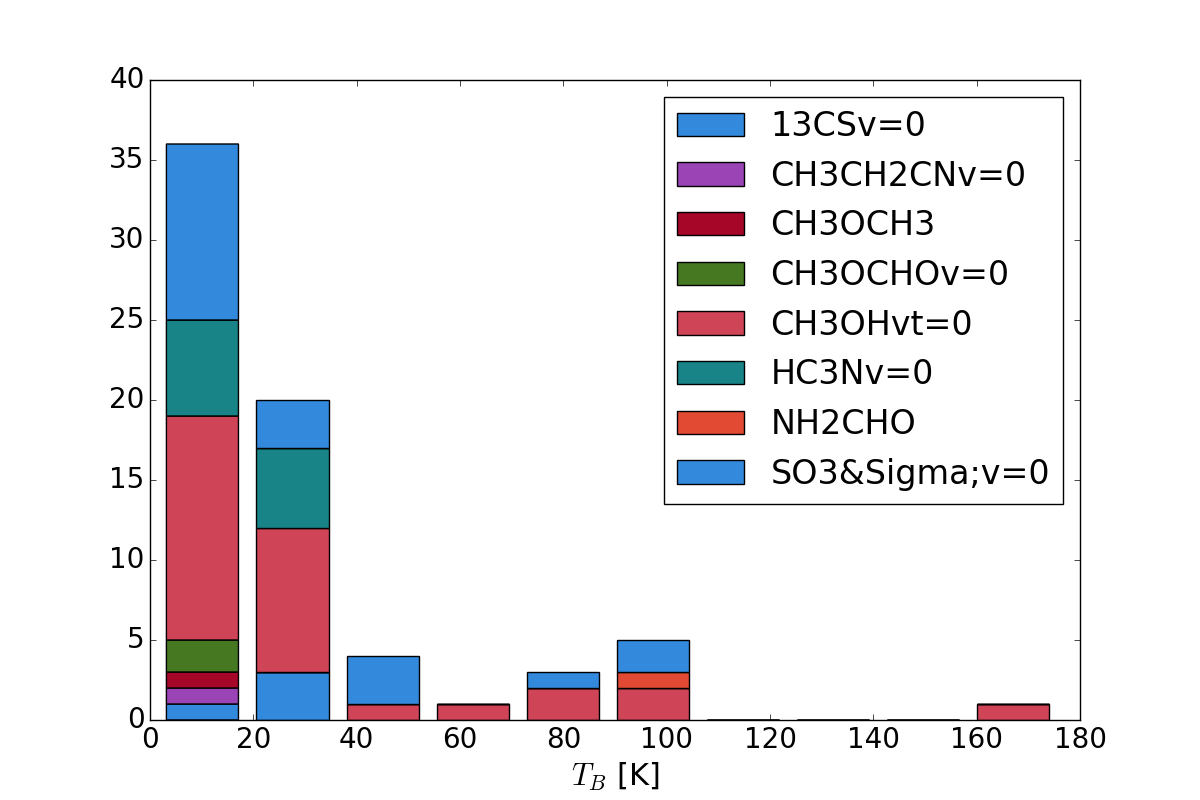
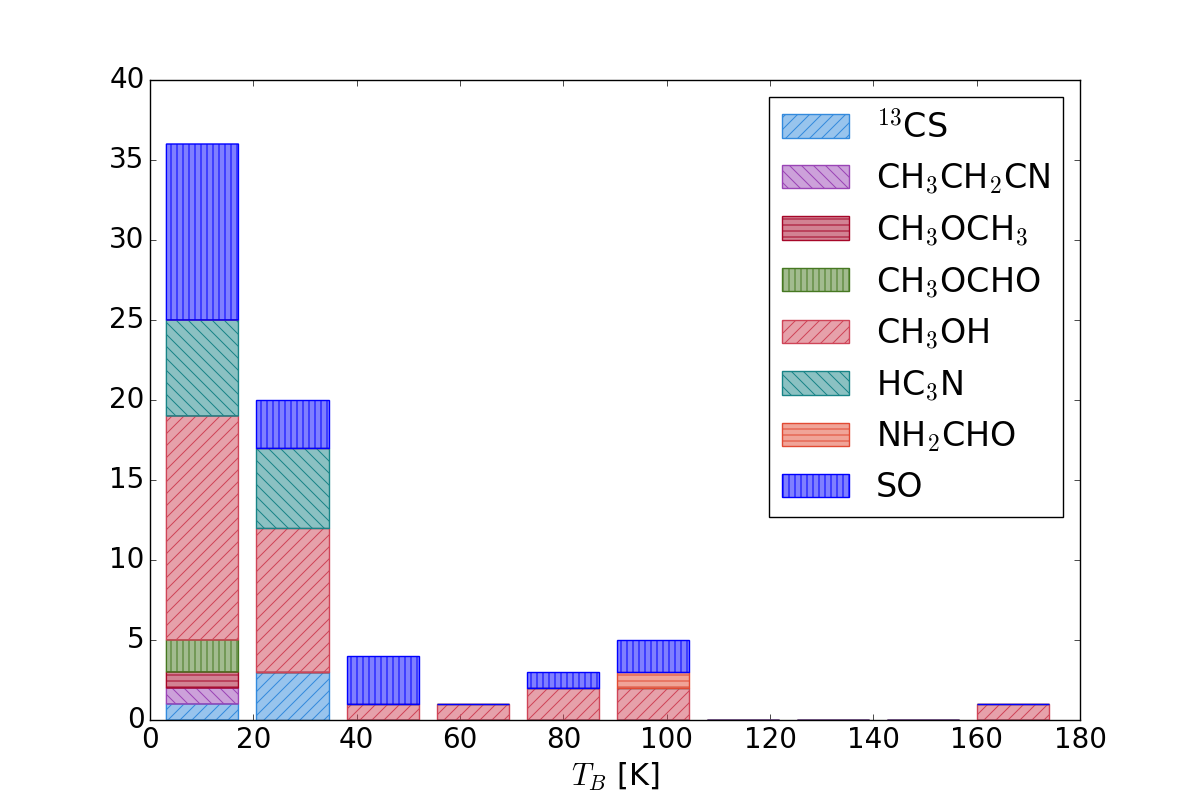
added more analysis

Changed region(s): [[0.555, 0.0938, 0.8942, 0.6562], [0.1233, 0.1562, 0.5858, 0.9062], [0.8017, 0.875, 0.8942, 0.9062]]

diff --git a/cores_and_outflows/cores_and_outflows.tex b/cores_and_outflows/cores_and_outflows.tex
@@ -1213,11 +1213,49 @@ surrounding cloud material, allowing radiation to escape.
 
 The detection of widespread high-J \methanol emission around the highest-mass
 protostars suggests that the use of \methanol as a bulk outflow tracer as
-suggested by \citet{Kristensen2015a} is not viable.  While mid-J \methanol
-emission is detected associated with the outflow (e.g., the J=10-9 transition),
-it is completely dominated by the general `extended hot core' emission
-described in Section \ref{sec:chemistrymaps}.
+suggested by \citet{Kristensen2015a} is not viable in regions with forming
+high-mass stars.  While mid-J \methanol emission is detected associated with
+the outflow (e.g., the J=10-9 transition), it is completely dominated by the
+general `extended hot core' emission described in Section
+\ref{sec:chemistrymaps}.
 
+
+\subsection{The accreting phase of high-mass star formation}
+The strong outflows observed around the highest-mass forming stars, e2e, e8,
+and north are clear indications of ongoing accretion onto these sources.
+However, the bright \hii regions, including e2w, e1, and d2, all lack any sign
+of an outflow or a surrounding rotating molecular structure.  Most of these
+sources lack any surrounding molecular material at all.
+%; e2w is an exception, being embedded in the e2e core, but it shows signs
+% that it may be escaping from the core, rather than being its focus
+
+Some models of high-mass star formation suggest that accretion continues
+through the ionized (\hii region) phase \citep{Keto2007a}.  The lack of
+molecular material around the majority of the compact \hii regions in W51
+suggests instead that most of the accretion is done by the time an \hii region
+ignites.
+
+
+\subsection{Jeans analysis?}
+Fragmentation is one of the critical problems in high-mass star formation.
+Assuming typical initial conditions for molecular clouds, with temperatures of
+order 10 K, gas is expected to fragment into sub-solar mass cores, preventing
+material from accreting onto single high-mass stars \citep{Krumholz2015a}.
+Even after high-mass stars successfully form, further fragmentation could
+halt the growth of these stars and limit their final mass \citep{Peters2010a}.
+
+Thermal Jeans fragmentation can be limited or suppressed entirely if the gas is
+warm enough.  The high observed gas temperatures, $T\sim100-600$ K over
+$\sim10^4$ AU, around the high mass protostars indicate that their radiative
+feedback in the infrared has a dramatic effect on the gas.  
+
+\todo{Is it worth going through the process of preventing/halting fragmentation
+by heating?  Should probably compute density profile, temperature profile, resulting
+jeans mass profile}
+
+
+% Expanding HII regions are more likely due to stars leaving their dense gas
+% regions than blowing away their surroundings...
 
 \section{Conclusions}
 We conclude.

diff --git a/plot_code/core_table_plots.py b/plot_code/core_table_plots.py
@@ -9,10 +9,12 @@ from astropy.io import fits
 from astropy import wcs
 from matplotlib.patches import Circle
 import matplotlib
-
-raise("TODO: add more colors/hatches to colorcycle")
+from cycler import cycler
 
 pl.matplotlib.rc_file('pubfiguresrc')
+pl.mpl.rcParams['axes.color_cycle'] = ('338ADD', '9A44B6', 'A60628', '467821',
+                                       'CF4457', '188487', 'E24A33', 'b', 'r',
+                                       'g', 'm', 'k')
 
 core_velo_tbl = Table.read(paths.tpath("core_velocities.ipac"), format="ascii.ipac")
 core_phot_tbl = Table.read(paths.tpath("continuum_photometry.ipac"), format='ascii.ipac')
@@ -366,6 +368,7 @@ pl.xlabel("0.2\" aperture flux")
 pl.ylabel("0.2\" over 0.4\" concentration parameter")
 pl.ylim(0,1.5)
 
+
 fig4 = pl.figure(4)
 fig4.clf()
 ax=fig4.gca()
@@ -381,16 +384,38 @@ histdata = []
 cont_brightness = cores_merge['MeanContinuumBrightness']
 contincluded_line_brightness = cores_merge['BrightestFittedPeakPixBrightnessWithcont']
 
+linename_mapping = {'13CSv=0': '$^{13}$CS',
+                    'CH3CH2CNv=0':'CH$_3$CH$_2$CN',
+                    'CH3OCH3':'CH$_3$OCH$_3$',
+                    'CH3OCHOv=0':'CH$_3$OCHO',
+                    'CH3OHvt=0':'CH$_3$OH',
+                    'HC3Nv=0':'HC$_3$N',
+                    'NH2CHO':'NH$_2$CHO',
+                    'SO3&Sigma;v=0':'SO',
+                   }
+
 for linename in np.unique(cores_merge['BrightestFittedLine']):
     if linename == '-':
         continue
     match = linename==cores_merge['BrightestFittedLine']
-    histdata.append((linename,
+    histdata.append((linename_mapping[linename],
                      contincluded_line_brightness[match & isOK]))
 
-ax.hist([x[1] for x in histdata],
-        label=[x[0] for x in histdata],
-        stacked=True)
+histd, bins, patches = ax.hist([x[1] for x in histdata], label=[x[0] for x in
+                                                                histdata],
+                               stacked=True)
+for pp, hh in zip(patches, ('//', '\\\\', '--', '||')*4):
+    for art in pp:
+        fc = art.get_facecolor()
+        art.set_edgecolor(fc)
+        fc = fc[:3] + (0.5,)
+        art.set_facecolor(fc)
+        art.set_hatch(hh)
+        #art.set_linewidth(2)
+#stack_hist(ax=ax, stacked_data=[x[1] for x in histdata],
+#           sty_cycle=color_cycle+hatch_cycle,
+#           labels=[x[0] for x in histdata],)
+
 ax.legend(loc='best')
 ax.set_xlabel("$T_B$ [K]")
 fig4.savefig(paths.fpath('coreplots/brightest_line_histogram.png'))

diff --git a/analysis/radial_profiles.py b/analysis/radial_profiles.py
@@ -138,6 +138,9 @@ def make_rprof(regions, ploteach=False):
     pl.figure(nplots*3+1).clf()
     pl.figure(nplots*3+2).clf()
     pl.figure(nplots*3+3).clf()
+    # $ find ~/work/w51/alma/FITS/ -samefile ~/work/w51/alma/FITS/W51_te_continuum_best.fits
+    # /Users/adam/work/w51/alma/FITS//12m/continuum/selfcal_allspw_selfcal_3_mfs_deeper.image.pbcor.fits
+    # /Users/adam/work/w51/alma/FITS//W51_te_continuum_best.fits
     fn = "selfcal_allspw_selfcal_3_mfs_deeper.image.pbcor.fits"
     fh = fits.open(paths.dpath("12m/continuum/"+fn))
     mywcs = wcs.WCS(fh[0].header)
@@ -230,11 +233,11 @@ nplots = len(regions)
 pl.figure(nplots*3+2).savefig(paths.fpath("cumulative_radial_flux_massivecores.png"))
 pl.figure(nplots*3+3).savefig(paths.fpath("cumulative_radial_mass_massivecores.png"))
 
-regions = pyregion.open(paths.rpath("cores.reg"))
-make_rprof(regions, ploteach=False)
-nplots = 3
-pl.figure(nplots*3+2).savefig(paths.fpath("cumulative_radial_flux_allcores.png"))
-pl.figure(nplots*3+3).savefig(paths.fpath("cumulative_radial_mass_allcores.png"))
+#regions = pyregion.open(paths.rpath("cores.reg"))
+#make_rprof(regions, ploteach=False)
+#nplots = 3
+#pl.figure(nplots*3+2).savefig(paths.fpath("cumulative_radial_flux_allcores.png"))
+#pl.figure(nplots*3+3).savefig(paths.fpath("cumulative_radial_mass_allcores.png"))
 
 pl.draw()
 pl.show()

diff --git a/tables/make_line_table.py b/tables/make_line_table.py
@@ -1,6 +1,7 @@
 from astropy.table import Table, Column
 from astropy import units as u
 from latex_info import latexdict
+from astroquery.splatalogue import Splatalogue
 
 from line_to_image_list import line_to_image_list, labeldict
 
@@ -12,6 +13,11 @@ for spwid in (0,1,2,3):
                             if spw==spwid],
                       name='Frequency',
                       unit=u.GHz,)
+
+    EU = [set(Splatalogue.query_lines(freq*(1-0.001/3e5),
+                                      freq*(1+0.001*3e5))['E_U (K)'])
+          for freq in u.Quantity(freq_col)]
+
     #spw_col = Column(data=[spw for _,_,_,spw in line_to_image_list
     #                       if spw==spwid],
     #                 name='Spectral Window',)

diff --git a/analysis/total_mass_analysis.py b/analysis/total_mass_analysis.py
@@ -43,7 +43,7 @@ threshold_column = masscalc.dust.colofsnu(nu=masscalc.centerfreq,
                                           snu=threshold*u.beam,
                                           beamomega=beam.sr).to(u.cm**-2,
                                                                 u.dimensionless_angles())
-threshold_density = (masscalc.mass_conversion_factor(20) * threshold.to(u.mJy).value /
+threshold_density = (masscalc.mass_conversion_factor(20) * (threshold*u.beam).to(u.mJy).value /
                      (4/3.*np.pi) /
                      (beam.sr.value*masscalc.distance**2)**(1.5) /
                      (2.8*constants.m_p)).to(1/u.cm**3)
